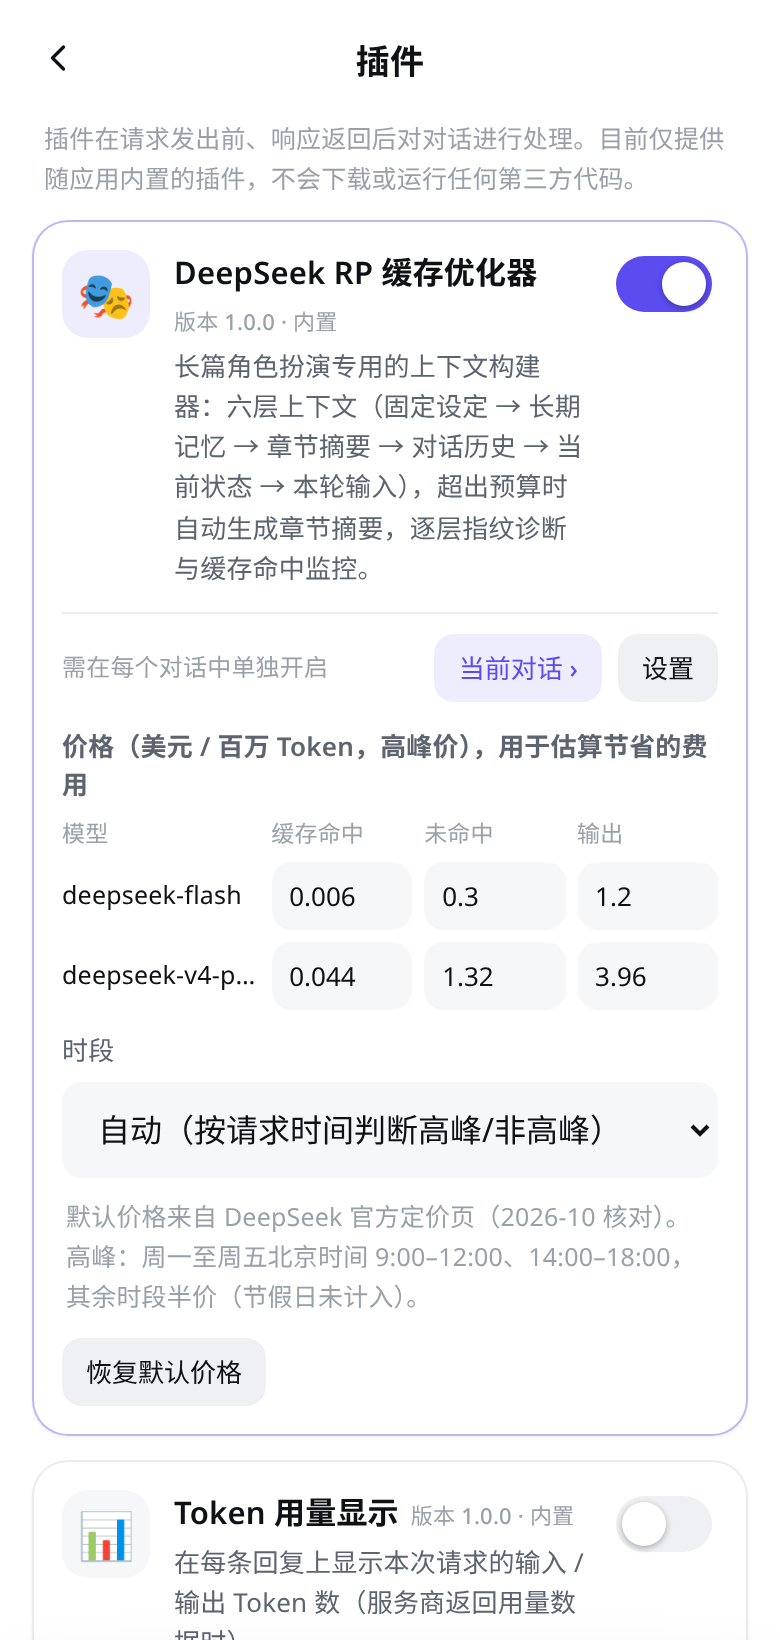
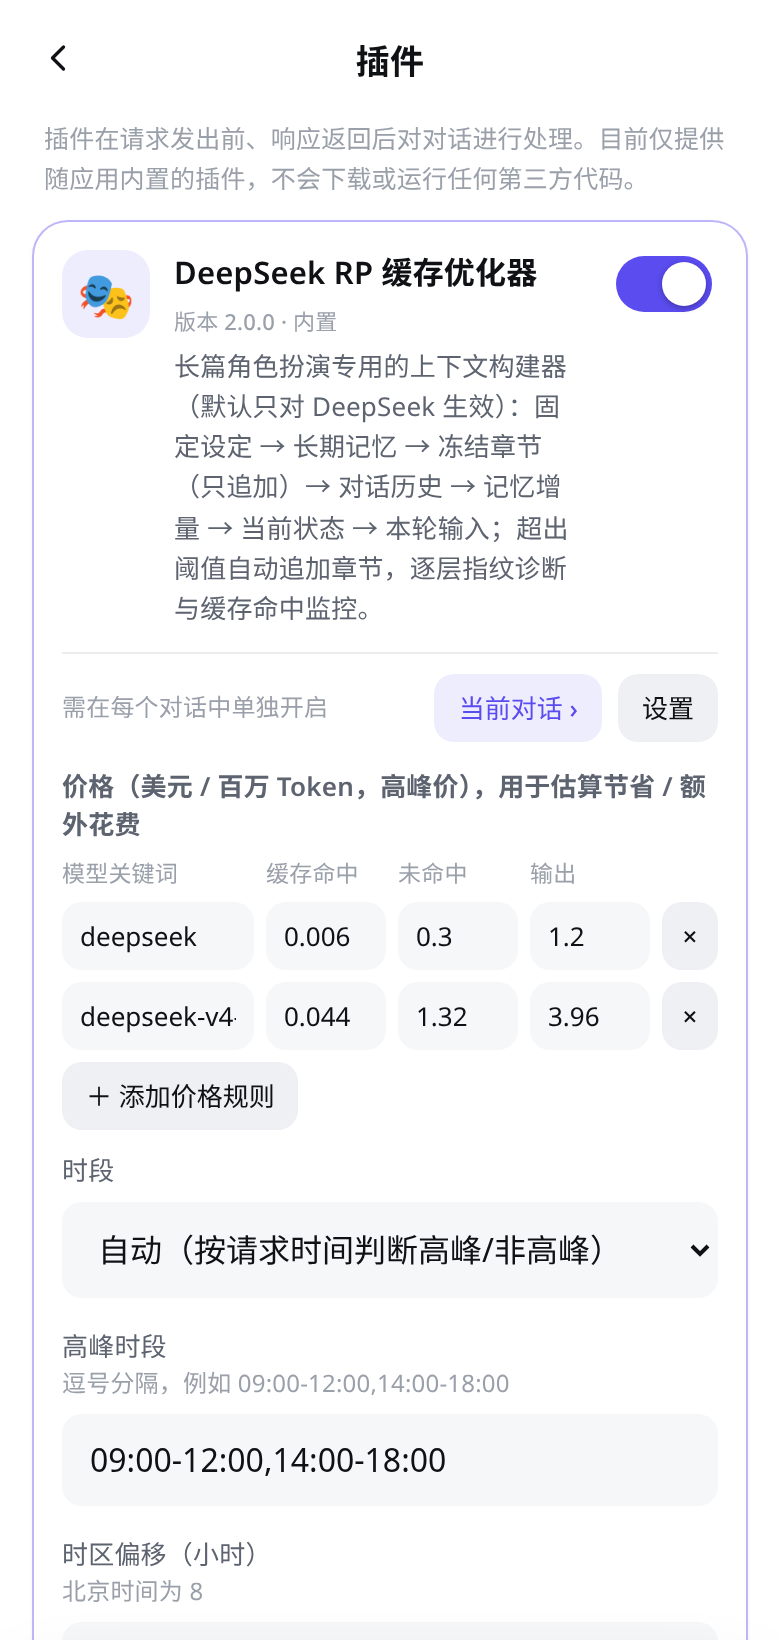
v0.4.0：版本号、README 与插件文档（V2 变更说明），更新 RP 界面截图

diff --git a/docs/plugins/README.md b/docs/plugins/README.md
@@ -80,6 +80,8 @@ Plugins.registry.register({
 | `toast(text)`、`dialog({...})`、`esc(html)` | 提示、确认对话框、转义 |
 | `openPanel(pluginId, tab)` | 打开插件的「本对话面板」 |
 | `callModel(prompt, { model, maxTokens, setCancel })` | 用当前对话的服务商发一次 **非流式** 调用，返回文本 |
+| `provider(conv)` | 对话所用的服务商（v0.4.0，插件据此判断适用性） |
+| `requestItems(conv)` | 与发送时相同的消息展开（文件内容等，不含本轮联网搜索；v0.4.0，界面估算与实际发送对齐） |
 
 ### 新增一个内置插件
 
@@ -107,7 +109,87 @@ Plugins.registry.register({
 
 ---
 
-## 2. DeepSeek RP 缓存优化器 V1（实现说明）
+## 2. DeepSeek RP 缓存优化器 V2（v0.4.0 起，以本节为准）
+
+V2 在 V1 的基础上解决了几个「前缀被破坏 / 白花钱」的问题。下面先列 V2 的变化，V1 的完整实现说明保留在第 2V1 节（被 V2 改动的地方已标注）。
+
+### 2.0.1 请求结构（V2）
+
+```text
+system:
+  <对话系统提示词> [WORLD] [CHARACTER] … [STYLE]     L1 永久锚点
+  [LONG_TERM_MEMORY]\n…                              L2 长期记忆（只放稳定事实）
+  [CHAPTER_SUMMARY #001]\n…                          L3 冻结章节，按顺序全部发送，只追加
+  [CHAPTER_SUMMARY #002]\n…
+user / assistant / …                                 L4 最近完整对话：原顺序、原文
+user:
+  <本轮输入>                                          L6（放在最前面）
+  \n\n[MEMORY_UPDATE]\n…                              记忆增量（为空时省略）
+  \n\n[CURRENT_STATE]\n…                              L5 当前状态（为空时省略）
+```
+
+### 2.0.2 章节只追加（替代 V1 的「每次合并成一份」）
+
+- V1：每次摘要都把「上一版 + 新一批」合并成新的一份，并 **替换** system 里的旧摘要 → 摘要那一轮只剩 L1 + L2 能命中。
+- V2：每次只把 **新移出的旧对话** 写成新的一章，接在前面章节之后；之前的章节逐字不变 → 摘要那一轮能命中 L1 + L2 + 之前全部章节。章节提示词把之前的章节作为只读参考，要求不要复述。
+- 章节合计超过「章节合计上限」（默认 12000 Token，可在预算设置里改）时，下一次摘要改为把 **全部章节（+ 本批旧对话）合并成一章**。合并会让 L3 之后的缓存重建一次，所以界面会提前提示，并显示预计额外花费。
+- 章节可以单独编辑（旧内容进入这一章的历史版本，可恢复），可以「撤销最后一章」（被覆盖的消息重新以原文发送；撤销合并章会恢复被合并的原章节）。被合并 / 撤销的章节保存在只读存档里（最多 50 个）。
+- 诊断：追加章节时 L3 为 **APPEND**（之前的章节指纹全部不变），编辑 / 撤销 / 合并为 CHANGED。
+- **旧数据迁移**：v0.3.x 保存的单份合并摘要会在第一次读取时变成章节 #001（内容、覆盖范围逐字不变），下一章编号为 #002；旧快照列表 `summaries` 原样保留不删除。
+
+### 2.0.3 摘要最小间隔与额外花费估算
+
+- 新增「摘要最小间隔（轮）」（默认 10）：达到摘要阈值、但距上一章不足 N 轮时先不摘要，面板显示「摘要间隔未到」。**超出上下文预算时不受限制**（否则只能截断，代价更大）。
+- `RPCache.summaryCost(plan, {model, prices, mode, peak})` 估算一次自动摘要的额外开销：摘要调用（输入全部按未命中计 + 输出）+ 缓存重建（新章节 + 剩余历史；合并时还包括原来命中的全部章节）。
+  - 摘要前：面板「下次发送时会先自动追加章节…预计额外花费约 $x」。
+  - 摘要后：提示条显示「额外花费约 $x」，日志记录 `summary_cost`，监控页「是否发生摘要」一栏显示估算。
+  - 手动「立即追加章节 / 合并全部章节」前的确认框也显示估算。
+
+### 2.0.4 记忆增量（长期记忆不再轻易破坏前缀）
+
+- 新增块 `delta`「记忆增量」，发送时放在最后一条用户消息里（输入之后、状态之前），**不进入 system，也不进入历史**。修改它只影响最后一小段，前面的缓存不受影响。
+- 长期记忆（L2）位于前缀靠前位置，修改会让之后的章节和历史全部重建。建议：L2 只放稳定事实，新近确认的事写进记忆增量。
+- 「把记忆增量合并进长期记忆」：追加到 L2 末尾（L2 版本 +1）并清空增量。确认框会提示代价（`mergeDeltaCost`：章节 + 历史 Token 重建，及估算美元）。
+
+### 2.0.5 本轮输入放在最前面（状态尾巴的取舍）
+
+- V1 把 `[CURRENT_STATE]…[USER_INPUT]` 放在输入前面。这条消息进入历史后只保留输入原文，所以上一轮请求与本轮请求的公共前缀在「上一轮输入」**开头**就断开了。
+- 考虑过的方案：把带状态的原样冻结进历史。这样公共前缀最长，但历史里会残留每一轮的旧状态（HP、时间、地点），模型容易把旧状态当成当前状态，而且每轮都多发一份旧状态，**不采用**。
+- V2 方案：输入在前、增量和状态在后。公共前缀一直延伸到 **上一轮输入的末尾**，只损失上一轮的状态 / 增量尾巴（通常几十个 Token）；历史里不残留旧状态；状态仍然紧挨着模型开始生成的位置，标签明确。
+- 状态和增量都为空时，最后一条用户消息就是输入原文（与 V1 相同）。
+
+### 2.0.6 重新生成不再改写冻结原文
+
+- V1：重新生成最后一条回复时，会用重新搜索的结果覆盖 `rpSent`。
+- V2：默认 **沿用首次发送的原文**（含当时的联网 / 文件内容），请求与上一次逐字节相同，并提示「沿用这条消息首次发送的原文」。需要新的搜索结果时，在预算设置里打开「重新生成时刷新冻结的用户消息」。编辑消息仍然会清掉 `rpSent`（`app.js`）。
+
+### 2.0.7 服务商适用性（默认只对 DeepSeek 生效）
+
+- `RPCache.isApplicable(provider, model)`：DeepSeek 预设、Base URL 含 `deepseek`、或模型名含 `deepseek`（如 OpenRouter / 硅基流动上的 DeepSeek 模型）→ 适用。
+- 不适用时：即使对话里开了插件，请求也 **逐字节不变**，不冻结用户消息、不记日志、不变灰消息；顶栏显示「🎭 RP · 不适用」，面板说明原因。设定和章节保留，切回 DeepSeek 后继续生效。
+- 面板里可以打开「仍然在此服务商上启用」（`settings.force_enable`）：
+  - **Claude**：自动加两个 `cache_control: {type: 'ephemeral'}` 断点：system，以及稳定历史的最后一条（最后一条用户消息之前）。Anthropic 最多允许 4 个，短于最小缓存长度时由服务端忽略。
+  - OpenAI 等：照常重排（OpenAI 自动前缀缓存），不加额外字段。
+
+### 2.0.8 Token 估算与校准、界面对齐
+
+- 估算按字符类型分别计价（汉字 / 假名 / 谚文 / 全角 0.6，英文字母 0.3，数字 0.5，ASCII 标点 0.6，空白 0.1，emoji 等 1.5 / 码点）。
+- 每次回复后用服务商返回的真实输入 Token 校准：`calib = 0.7 × 旧值 + 0.3 × (真实 / 估算)`，限制在 0.5–2.5，作用于预算、摘要阈值和界面显示。预算设置里可以看到系数并重置。
+- 界面估算改用宿主的 `requestItems(conv)`（与发送时相同的文件展开和过滤规则），不再和实际发送的内容有偏差。
+
+### 2.0.9 价格与高峰时段可配置
+
+- 价格规则：每条规则有「模型关键词」（逗号分隔，模型名包含任意一个即匹配，越长越优先）和命中 / 未命中 / 输出价格，可以增删改。旧配置（没有关键词）沿用 V1 规则。
+- 高峰时段：时段（如 `09:00-12:00,14:00-18:00`）、时区偏移（北京时间 8）、是否仅工作日、非高峰价格倍数（默认 0.5）。
+
+### 2.0.10 测试
+
+- `tests/rpcache-v2.test.js`：用模拟会话（不调用真实 API）逐字节比较相邻两轮请求体的公共前缀，覆盖多轮 + 状态变化、编辑、重新生成、只追加章节与合并、旧数据迁移、记忆增量、最小间隔、服务商适用性（OpenAI / Claude / Gemini 逐字节不变，Claude 强制启用时的 cache_control）、校准、价格 / 高峰配置、界面估算对齐。
+- `tests/ui-e2e.js`：章节页、章节编辑与恢复、记忆增量与合并确认、价格规则等界面流程。截图可以用 `SHOTS_DIR=目录 npm run test:ui` 输出到别处。
+
+---
+
+## 2V1. DeepSeek RP 缓存优化器 V1（实现说明，历史；第 2 节中标注的部分已被 V2 取代）
 
 设计文档：[deepseek-rp-cache-design-v1.md](deepseek-rp-cache-design-v1.md)。文档中的「本地代理」改为在应用内部的请求管线中完成：应用本身就是 RP 客户端，Context Builder 直接作用于它发出的请求。
 
@@ -128,10 +210,10 @@ system:
   [PROHIBITIONS]\n…                   │
   [STYLE]\n…                          ┘
   [LONG_TERM_MEMORY]\n…                 L2 长期记忆（memory_v001…）
-  [CHAPTER_SUMMARY #003]\n…             L3 当前生效的冻结章节摘要（只发送最新一份）
+  [CHAPTER_SUMMARY #003]\n…             L3 当前生效的冻结章节摘要（只发送最新一份；V2：全部章节按顺序发送，只追加）
 user / assistant / user / assistant …   L4 最近完整对话：原顺序、原文
 user:
-  [CURRENT_STATE]\n…\n\n[USER_INPUT]\n<本轮输入>   L5 + L6（状态为空时只有输入原文）
+  [CURRENT_STATE]\n…\n\n[USER_INPUT]\n<本轮输入>   L5 + L6（状态为空时只有输入原文；V2：输入在前，见 2.0.5）
 ```
 
 - 各部分之间用 `\n\n` 连接。

diff --git a/README.md b/README.md
@@ -48,6 +48,19 @@ exe 未做代码签名，首次运行时 Windows SmartScreen 可能提示「Wind
 
 ## 功能
 
+**v0.4.0：DeepSeek RP 缓存优化器 V2**
+- **章节只追加**：每次自动摘要只把新移出的旧对话写成新的一章，接在之前的章节后面一起发送；之前的章节逐字不变，摘要那一轮也能命中「固定设定 + 长期记忆 + 之前全部章节」。章节合计超过上限（默认 12000 Token，可调）时才合并一次，并提前提示额外花费。旧版的单份摘要自动迁移为章节 #001
+- **默认只对 DeepSeek 生效**：其他服务商的对话即使开了插件也不改写请求（逐字节不变），顶栏显示「不适用」；可以在面板里强制启用，Claude 会自动加 `cache_control` 缓存断点
+- **记忆增量**：新近确认的事实写进「记忆增量」（放在对话历史之后），修改不破坏前面的缓存；攒多了再一键合并进长期记忆（合并前提示代价）
+- **摘要最小间隔**（默认 10 轮）与 **额外花费估算**：摘要前后都显示「摘要调用 + 缓存重建」的估算花费
+- 本轮输入放在最后一条用户消息的开头、状态放在末尾：每轮多命中上一轮输入那一段，旧状态不会残留在历史里
+- 重新生成默认沿用首次发送的原文（含当时的联网 / 文件内容），请求逐字节一致；可选择刷新
+- Token 估算按字符类型细分，并按服务商返回的真实用量自动校准；界面估算与实际发送对齐
+- 价格规则（模型关键词匹配）与高峰时段、时区、非高峰倍数都可以在插件设置里修改
+- 从 v0.3.x 覆盖安装即可升级，数据（含章节摘要）全部保留。详见 [docs/plugins/README.md](docs/plugins/README.md) 第 2 节
+
+<img src="docs/light-rp-chapters.png" width="200"> <img src="docs/light-rp-delta.png" width="200"> <img src="docs/dark-rp-blocks.png" width="200">
+
 **v0.3.6：账户余额、小米 MiMo、侧边栏分区与新图标**
 - 侧边栏 / 设置新增「账户余额」：汇总已配置 API Key 的服务商；「刷新全部」并行查询。已核实支持：DeepSeek、硅基流动、Kimi/Moonshot、OpenRouter；其余显示「不支持查询」并给出控制台链接。结果带时间戳缓存，错误清晰展示，从不显示完整 Key
 - 新增预设「小米 MiMo」：`https://api.xiaomimimo.com/v1`，模型含 mimo-v2.6-flash / pro / ultraspeed、mimo-v2.5-pro / mimo-v2.5（官方 OpenAI 兼容文档）
